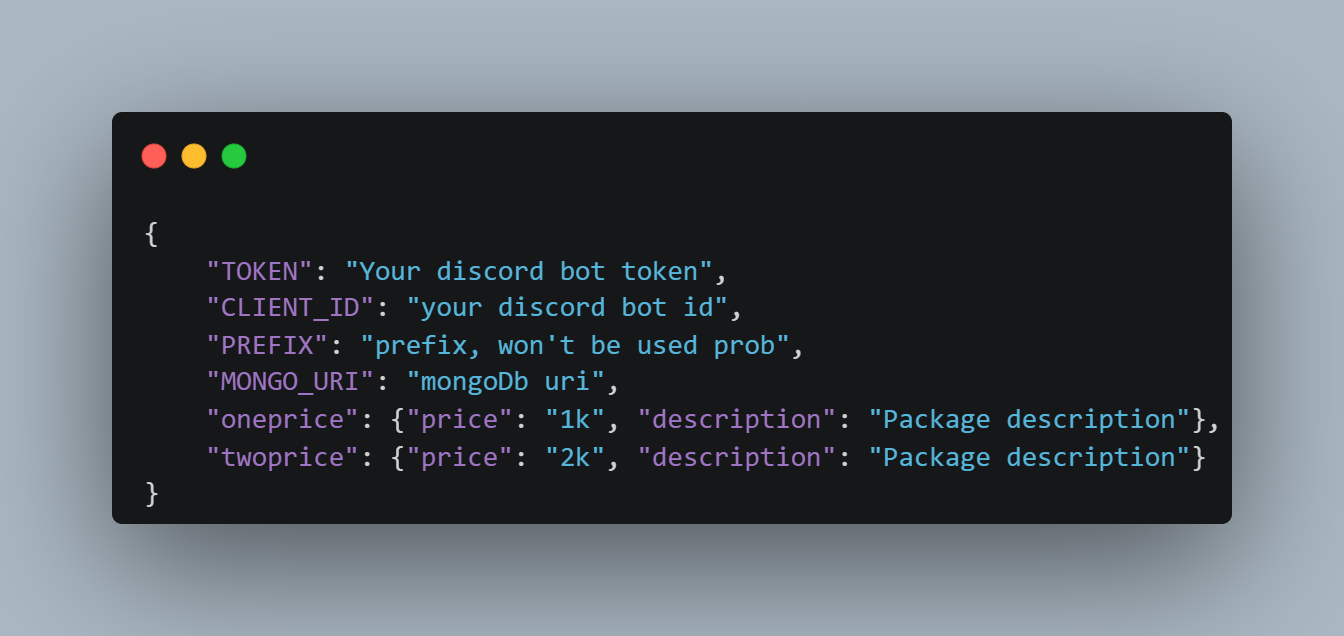
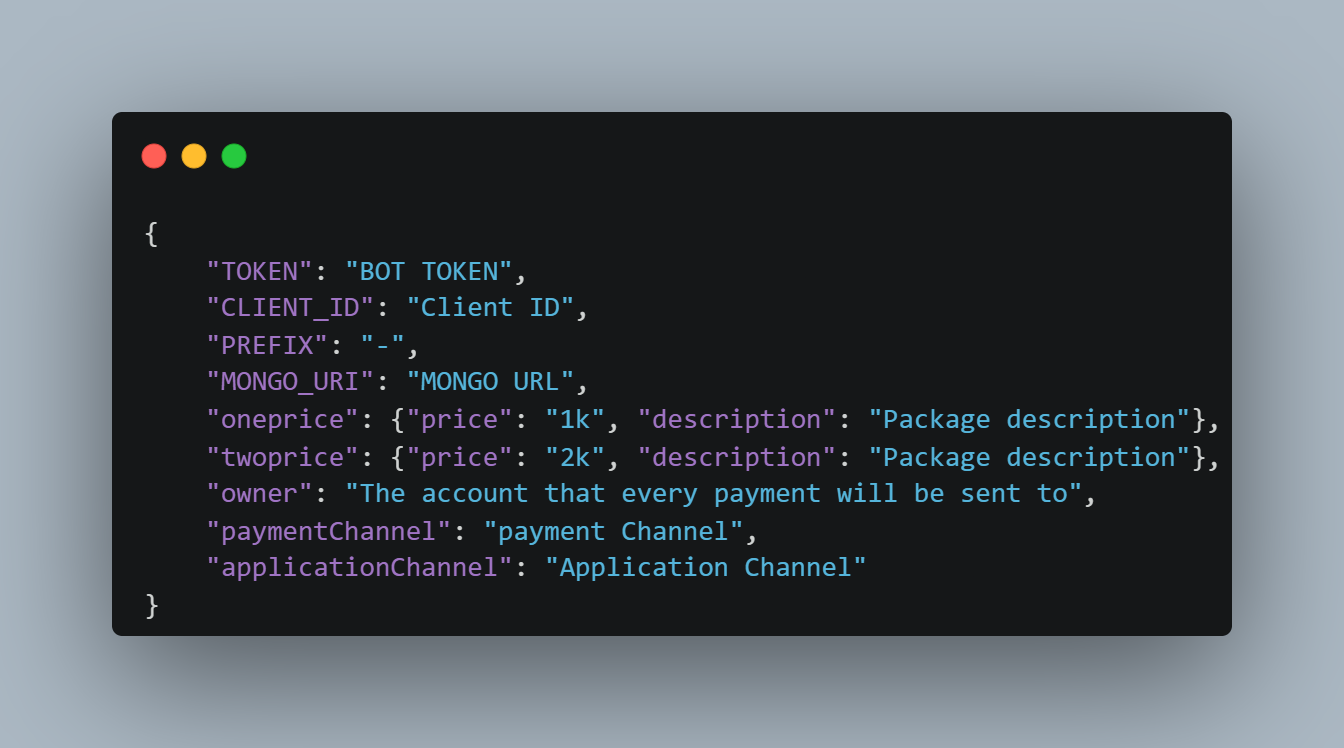
Update to make everything way eassier

diff --git a/src/events/interactionCreate.ts b/src/events/interactionCreate.ts
@@ -2,6 +2,9 @@ import { ActionRowBuilder, ButtonBuilder, ButtonComponent, ButtonStyle, GuildMem
 import { BotEvent, Embed } from "../types";
 import user from "../schemas/User";
 import {timer} from "../functions"
+import {oneprice, twoprice, owner, paymentChannel, applicationChannel} from "../config.json"
+import { codeBlock } from "@discordjs/builders"
+let packageType: any;
 const event : BotEvent = {
     name: "interactionCreate",
     execute: async (interaction: Interaction) => {
@@ -37,6 +40,7 @@ const event : BotEvent = {
             }
         } else if(interaction.isButton()) {
             if(interaction.customId == 'main') {
+                packageType = interaction.message?.embeds[0].fields[0] as {value: string, name: string, inline: boolean}
                 interaction.channel?.messages.cache.get(interaction.message.id)?.delete()
                 let mainComponent = new ModalBuilder().setCustomId('mainmodal').setTitle("Advert Customization");
                 const advertLink = new ActionRowBuilder().addComponents(new TextInputBuilder().setCustomId('link').setLabel("Your Advert URL").setPlaceholder("https://discord.gg/invLINK | https://youtube.com/rickroll").setStyle(TextInputStyle.Short));
@@ -52,14 +56,17 @@ const event : BotEvent = {
                 ).addComponents(
                     new ButtonBuilder().setCustomId('declineoffer').setLabel('Decline').setStyle(ButtonStyle.Danger)
                 )
-                let mainChannel = interaction.client.channels.cache.get('1140877841416847380') as TextChannel
+                let mainChannel = interaction.client.channels.cache.get(applicationChannel) as TextChannel
                 mainChannel.send({embeds: [interaction.message.embeds[0]], components: [acceptslashdecline as any]}) // Again :/
                 
             } else if(interaction.customId == 'acceptoffer') {
                 if(!(interaction.member?.roles as GuildMemberRoleManager).cache.has('1086464897702973480')) return;
-                let channelLink = await (interaction.guild?.channels.cache.get('1140895340229308426') as TextChannel).createInvite()
+                let channelLink = await (interaction.guild?.channels.cache.get(paymentChannel) as TextChannel).createInvite()
                 let mainUser = interaction.guild?.members.cache.get(interaction.message.embeds[0].footer?.text as any) as GuildMember
-                let embed: Embed = {title: `Please Transfer \`1000\``, description: "```c <@642513832270626817> 10000 ```", footer: {text: '⏰ | You have 5 minutes to pay for the advert!'}}
+                console.log(packageType, packageType === oneprice.price ? (parseInt(oneprice?.price.replace('k', '') || "0") * 1000) * (1 + (5/100)) : packageType === twoprice.price ? (parseInt(twoprice?.price.replace('k', '') || "0") * 1000) * (1 + (5/100)) : "")
+                let embed: Embed = {title: `Please Transfer \`${packageType.value === oneprice.price ? (parseInt(oneprice?.price.replace('k', '') || "0") * 1000) * (1 + (5/100)) : packageType.value === twoprice.price ? (parseInt(twoprice?.price.replace('k', '') || "0") * 1000) * (1 + (5/100)) : ""}\``, 
+                description: codeBlock(`c <@${owner}> ${packageType.value === oneprice.price ? (parseInt(oneprice?.price.replace('k', '') || "0") * 1000) * (1 + (5/100)) : packageType.value === twoprice.price ? (parseInt(twoprice?.price.replace('k', '') || "0") * 1000) * (1 + (5/100)) : ""}`),
+                footer: {text: '⏰ | You have 5 minutes to pay for the advert!'}}
                 mainUser.send({embeds: [embed], content: `discord.gg/${channelLink.code} . By clicking "joined" it'll redirect you to the channel you have to pay in`}) // This automatically redirects them to the paying channel!
                 interaction.reply({content: "The user will be notified soon.", embeds: [], components: []})
                 timer({timer: 500000, callback: () => 
@@ -85,6 +92,7 @@ const event : BotEvent = {
         }
         if(interaction.isModalSubmit()) {
             if(interaction.customId == 'mainmodal') {
+                console.log(packageType)
                 let mainEmbed: Embed = {
                     title: interaction.user.username + " Submission",
                     fields: [{name: 'Advert Link', value: "`" + interaction.fields.getTextInputValue('link') + "`"}, {name: 'Advert Description', value: interaction.fields.getTextInputValue('description')}],
@@ -97,7 +105,6 @@ const event : BotEvent = {
                     new ButtonBuilder().setCustomId('decline').setLabel('Decline').setStyle(ButtonStyle.Danger)
                 )
                 await interaction.reply({ embeds: [mainEmbed], components: [mainButtons as any]}) // Any again cuz ts types is crazy !
-
             }
         }
     }

diff --git a/src/slashCommands/advert.ts b/src/slashCommands/advert.ts
@@ -29,6 +29,7 @@ const AdvertCommand: SlashCommand = {
                 packageDescription = twoprice?.description
                 break;
         }
+        
         console.log(packageDescription, oneprice)
         let mainEmbed: Embed = {
             title: "Guild Advert",
@@ -38,6 +39,10 @@ const AdvertCommand: SlashCommand = {
             },
             description: 'Start Advertising your Guild NOW',
             fields: [{
+                name: "Package Type",
+                value: choice
+            },
+                {
                 name: "Costs",
                 value: (parseInt(choice?.replace('k', '') || "0") * 1000) * (1 + (5/100))
             }, {
